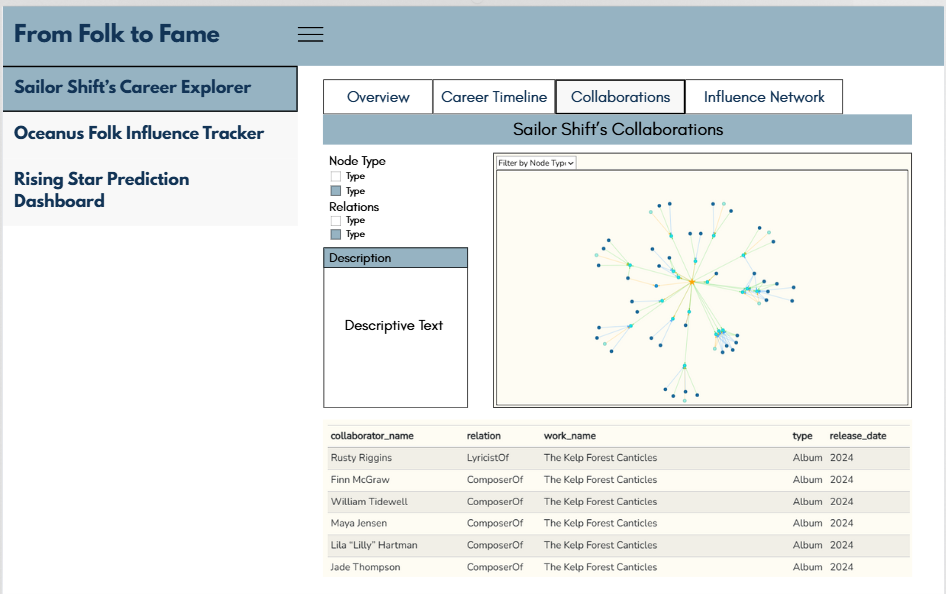
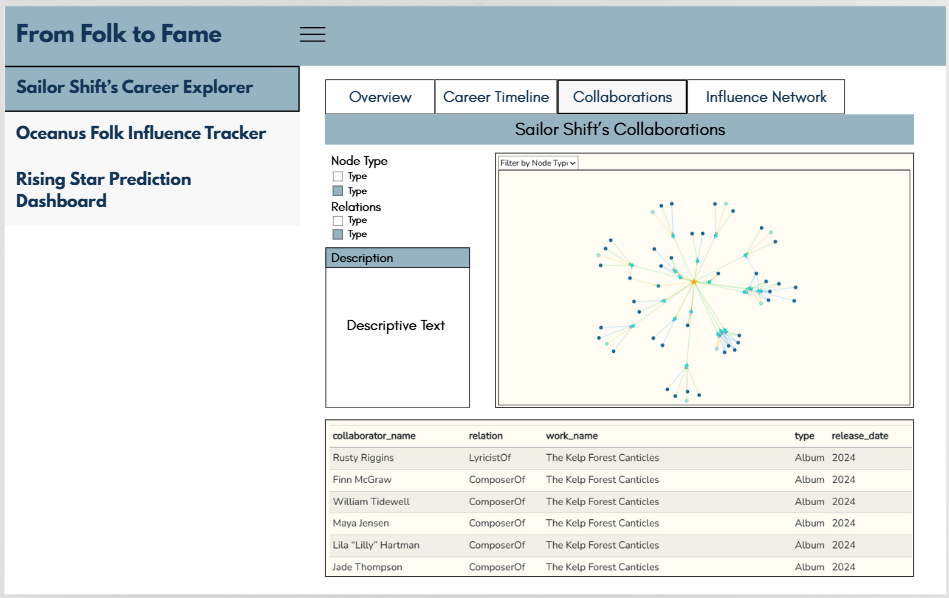
Commit Take Home Exercise 03 Draft

diff --git a/_site/Take-Home_Ex/Take-Home_Ex03/Take-Home_Ex03.html b/_site/Take-Home_Ex/Take-Home_Ex03/Take-Home_Ex03.html
@@ -403,7 +403,7 @@ pre > code.sourceCode > span > a:first-child::before { text-decoration: underlin
 {
     structure(list(...), class = "igraph.edge")
 }
-&lt;bytecode: 0x000001e120230628&gt;
+&lt;bytecode: 0x000001352a0bb2d8&gt;
 &lt;environment: namespace:igraph&gt;</code></pre>
 </div>
 </div>
@@ -1125,8 +1125,8 @@ Ideas
 <span id="cb33-43"><a href="#cb33-43" aria-hidden="true" tabindex="-1"></a><span class="st">                    box-shadow: 2px 2px 5px rgba(0,0,0,0.3);"</span></span>
 <span id="cb33-44"><a href="#cb33-44" aria-hidden="true" tabindex="-1"></a>  )</span></code><button title="Copy to Clipboard" class="code-copy-button"><i class="bi"></i></button></pre></div>
 <div class="cell-output-display">
-<div class="visNetwork html-widget html-fill-item" id="htmlwidget-49c191f64b8ac142f8de" style="width:100%;height:464px;"></div>
-<script type="application/json" data-for="htmlwidget-49c191f64b8ac142f8de">{"x":{"nodes":{"id":[1,2,3,4,5,6,7,8,9,10,11,12,13,14,15,16,17,18,19,20,21,22,23,24,25,26,27,28,29,30,31,32,33,34,35,36,37,38,39,40,41,42,43,44,45,46,47,48,49,50,51,52,53,54,55,56,57,58,59,60,61,62,63,64,65,66,67,68,69],"label":["Zane Cruz","Iris Moon","Violet Engines","Neon Heartbeat","Sophie Bennett","Michael Harris","Kara Lee","Ethan Clarke","Tidal Reverie","Ballads for the End of Time","Olivia Carter","Lucas Bennett","Maya Torres","Crimson Carriage","Melancholy Circuitry","Arlo Sterling","Lyra Blaze","Orion Cruz","Elara May","Cassian Rae","The Brine Choir","Drifting Between the Stars and the Sea","Artificial Sunsets","Electric Reverie","Zachary Cole","Lia Grant","Selkie's Hollow","Ballads for the Low Tide","Rusty Riggins","Finn McGraw","William Tidewell","Ewan MacCrae","Astrid Nørgaard","Freya Lindholm","Liam O'Sullivan","Fiona Mercer","Kai Reynolds","Aiden Harper","Finn Morgan","Skylar Brooks","The Wave Riders","Tides of Echos","Mia Waters","Lila Rivers","Siren's Call","Hidden Depths","Sailor Shift","Maya Jensen","Lila \"Lilly\" Hartman","Jade Thompson","Sophie Ramirez","Ivy Echos","The Kelp Forest Canticles","Luminescent Tides","Shoreline Sonnets","Tidal Pop Waves","Coral Beats","Tides & Ballads","Oceanbound","Echoes of the Deep","Coralia Bellweather","Levi Holloway","Marin Thorne","Jonah Calloway","Beatrice Albright","Tidesworn Ballads","Daniel O'Connell","Submerged Sonatas","Seashell Serenade (2030)"],"group":["Person","Person","MusicalGroup","Album","Person","Person","Person","Person","MusicalGroup","Album","Person","Person","Person","MusicalGroup","Album","Person","Person","Person","Person","Person","MusicalGroup","Album","Album","Album","Person","Person","MusicalGroup","Album","Person","Person","Person","Person","Person","Person","Person","Person","Person","Person","Person","Person","MusicalGroup","Album","Person","Person","MusicalGroup","Album","Person","Person","Person","Person","Person","MusicalGroup","Album","Album","Album","Album","Album","Album","Album","Album","Person","Person","Person","Person","Person","Album","Person","Album","Song"],"title":["Type: Person","Type: Person","Type: MusicalGroup","Type: Album","Type: Person","Type: Person","Type: Person","Type: Person","Type: MusicalGroup","Type: Album","Type: Person","Type: Person","Type: Person","Type: MusicalGroup","Type: Album","Type: Person","Type: Person","Type: Person","Type: Person","Type: Person","Type: MusicalGroup","Type: Album","Type: Album","Type: Album","Type: Person","Type: Person","Type: MusicalGroup","Type: Album","Type: Person","Type: Person","Type: Person","Type: Person","Type: Person","Type: Person","Type: Person","Type: Person","Type: Person","Type: Person","Type: Person","Type: Person","Type: MusicalGroup","Type: Album","Type: Person","Type: Person","Type: MusicalGroup","Type: Album","Type: Person","Type: Person","Type: Person","Type: Person","Type: Person","Type: MusicalGroup","Type: Album","Type: Album","Type: Album","Type: Album","Type: Album","Type: Album","Type: Album","Type: Album","Type: Person","Type: Person","Type: Person","Type: Person","Type: Person","Type: Album","Type: Person","Type: Album","Type: Song"],"color":["#176BA0","#176BA0","#9DF0E2","#1AE8E9","#176BA0","#176BA0","#176BA0","#176BA0","#9DF0E2","#1AE8E9","#176BA0","#176BA0","#176BA0","#9DF0E2","#1AE8E9","#176BA0","#176BA0","#176BA0","#176BA0","#176BA0","#9DF0E2","#1AE8E9","#1AE8E9","#1AE8E9","#176BA0","#176BA0","#9DF0E2","#1AE8E9","#176BA0","#176BA0","#176BA0","#176BA0","#176BA0","#176BA0","#176BA0","#176BA0","#176BA0","#176BA0","#176BA0","#176BA0","#9DF0E2","#1AE8E9","#176BA0","#176BA0","#9DF0E2","#1AE8E9","orange","#176BA0","#176BA0","#176BA0","#176BA0","#9DF0E2","#1AE8E9","#1AE8E9","#1AE8E9","#1AE8E9","#1AE8E9","#1AE8E9","#1AE8E9","#1AE8E9","#176BA0","#176BA0","#176BA0","#176BA0","#176BA0","#1AE8E9","#176BA0","#1AE8E9","#1B9ADE"],"shape":["dot","dot","dot","dot","dot","dot","dot","dot","dot","dot","dot","dot","dot","dot","dot","dot","dot","dot","dot","dot","dot","dot","dot","dot","dot","dot","dot","dot","dot","dot","dot","dot","dot","dot","dot","dot","dot","dot","dot","dot","dot","dot","dot","dot","dot","dot","star","dot","dot","dot","dot","dot","dot","dot","dot","dot","dot","dot","dot","dot","dot","dot","dot","dot","dot","dot","dot","dot","dot"],"size":[15,15,15,15,15,15,15,15,15,15,15,15,15,15,15,15,15,15,15,15,15,15,15,15,15,15,15,15,15,15,15,15,15,15,15,15,15,15,15,15,15,15,15,15,15,15,30,15,15,15,15,15,15,15,15,15,15,15,15,15,15,15,15,15,15,15,15,15,15],"x":[-0.245321564241419,-0.1475134406908725,-0.04768732744023096,-0.1041147839982239,0.9913407514402908,0.9682434643783888,1,0.9511796062701121,0.9010042785981012,0.6755882616159372,0.6053231219116961,0.3999986422967243,0.562760773098586,0.4735342982927662,0.3463367667397343,0.2335007432690568,0.2159078064084385,0.05216590103049512,-0.01289811841550481,0.1481235725871883,0.109315052229398,0.05258222685455416,0.1195129688373835,0.07864099473504504,-0.6379024447046089,-0.7124703609391774,-0.7838767281376491,-0.4957381036534576,-0.8408227005819171,-0.9771501243112106,-1,0.2547516290665013,0.1472410533407125,0.1624959756597668,-0.2511631375880871,-0.3399366534492991,0.5418532461763457,0.6923054181222681,0.6614673123258437,0.7841798376477018,0.8069410434358841,0.5039465750028667,-0.7706037210309697,-0.6338102880257879,-0.6975025253056772,-0.4778085311352345,-0.03455276944077423,-0.6109947158512201,-0.6736893062332432,-0.7169295925470196,-0.7519668869980509,-0.7227455457308497,-0.6429381728982857,-0.5035975967261017,-0.5491567350372183,-0.1716526104721978,0.08307728449242813,0.2514434038210351,0.1087788913772261,-0.1564938311273391,0.5034835989172217,0.4845257307177049,-0.2237525335509665,-0.323785129156962,-0.2865971702741228,-0.1816873621392738,-0.2655406909823861,-0.1672121973214725,0.2912543127391352],"y":[0.9717599142975604,0.9845461145608432,1,0.6146330010550216,0.05071164820379415,0.1517944810965834,-0.05525406281285339,-0.1529504143316158,0.2321499432437966,-0.004839835366738598,0.7463226083253414,0.9364792222157741,0.8755240833192757,0.8531902179956545,0.5520518513498325,-0.7649060896309275,-0.8652359102242975,-0.8902976190344207,-0.862233908880172,-0.8654747892365062,-0.9380717511264937,-0.6911771928865553,-0.6657511658324069,-0.6517609794326773,-0.9710786778014238,-0.8896863451807547,-0.806839755349118,-0.6084988557378014,-0.08579838376082494,-0.3255900958839073,-0.1648656666672036,0.2732999550869788,0.5498905518279225,0.3518475226852564,-0.9248298194815872,-0.8585136793406765,-0.4712887555295393,-0.8919034093996623,-1,-0.8640937332356551,-0.736503467329406,-0.6316581739406559,0.5661190492334494,0.7383993822884503,0.6466721870627146,0.3888558890802458,-0.1235644024239072,-0.3892582544016653,-0.01249160825340523,-0.3041500224120647,-0.2068039143412977,-0.09072759848991852,-0.1903587079036042,-0.1885181653762942,-0.1454718766494446,-0.5300833898048127,0.2049001017191847,-0.06421358218677997,0.09489441581747049,0.2249744591263005,-0.0912876685825007,0.08649820529252916,0.5423538552672433,0.4996997997410695,0.1041919304596508,0.01082988959355458,-0.3972372451514964,-0.2886902290108507,-0.3078636184675723]},"edges":{"from":[1,2,3,5,6,7,8,9,11,12,13,14,16,16,16,17,17,17,18,18,18,19,19,19,20,20,20,21,21,21,25,26,27,29,29,30,31,32,32,33,34,34,35,36,37,37,38,39,40,41,43,44,45,47,47,47,47,47,47,47,47,47,47,47,47,47,47,47,47,47,47,47,47,47,47,47,47,47,47,47,48,48,48,48,49,49,49,50,50,50,51,51,51,52,52,52,61,62,63,64,65,65,65,67,67,67],"to":[4,4,4,10,10,10,10,10,15,15,15,15,22,23,24,22,23,24,22,23,24,22,23,24,22,23,24,22,23,24,28,28,28,53,55,53,53,57,59,57,57,59,56,56,42,69,42,42,42,42,46,46,46,4,10,15,22,23,24,28,42,46,53,54,55,56,56,57,57,58,58,59,59,60,60,66,66,68,68,69,28,53,54,55,53,54,55,53,54,55,53,54,55,53,54,55,58,58,60,60,66,66,66,68,68,68],"color":["#32CD32","#1E90FF","#FFA500","#1E90FF","#32CD32","#32CD32","#1E90FF","#FFA500","#1E90FF","#1E90FF","#1E90FF","#FFA500","#32CD32","#32CD32","#32CD32","#1E90FF","#1E90FF","#1E90FF","#1E90FF","#1E90FF","#1E90FF","#1E90FF","#1E90FF","#1E90FF","#1E90FF","#1E90FF","#1E90FF","#FFA500","#FFA500","#FFA500","#32CD32","#32CD32","#FFA500","#32CD32","#32CD32","#1E90FF","#1E90FF","#32CD32","#32CD32","#1E90FF","#1E90FF","#1E90FF","#1E90FF","#1E90FF","#32CD32","#FFA500","#32CD32","#32CD32","#32CD32","#FFA500","#32CD32","#1E90FF","#FFA500","#32CD32","#32CD32","#32CD32","#32CD32","#32CD32","#32CD32","#32CD32","#32CD32","#32CD32","#32CD32","#32CD32","#32CD32","#32CD32","#FFA500","#32CD32","#FFA500","#32CD32","#FFA500","#32CD32","#FFA500","#32CD32","#FFA500","#FFA500","#32CD32","#FFA500","#32CD32","#FFA500","#1E90FF","#1E90FF","#1E90FF","#1E90FF","#1E90FF","#1E90FF","#1E90FF","#1E90FF","#1E90FF","#1E90FF","#32CD32","#32CD32","#32CD32","#FFA500","#FFA500","#FFA500","#1E90FF","#32CD32","#1E90FF","#32CD32","#FFA500","#32CD32","#FFA500","#FFA500","#1E90FF","#FFA500"],"arrows":["to","to","to","to","to","to","to","to","to","to","to","to","to","to","to","to","to","to","to","to","to","to","to","to","to","to","to","to","to","to","to","to","to","to","to","to","to","to","to","to","to","to","to","to","to","to","to","to","to","to","to","to","to","to","to","to","to","to","to","to","to","to","to","to","to","to","to","to","to","to","to","to","to","to","to","to","to","to","to","to","to","to","to","to","to","to","to","to","to","to","to","to","to","to","to","to","to","to","to","to","to","to","to","to","to","to"],"title":["Relation: LyricistOf","Relation: ComposerOf","Relation: PerformerOf","Relation: ComposerOf","Relation: LyricistOf","Relation: LyricistOf","Relation: ComposerOf","Relation: PerformerOf","Relation: ComposerOf","Relation: ComposerOf","Relation: ComposerOf","Relation: PerformerOf","Relation: LyricistOf","Relation: LyricistOf","Relation: LyricistOf","Relation: ComposerOf","Relation: ComposerOf","Relation: ComposerOf","Relation: ComposerOf","Relation: ComposerOf","Relation: ComposerOf","Relation: ComposerOf","Relation: ComposerOf","Relation: ComposerOf","Relation: ComposerOf","Relation: ComposerOf","Relation: ComposerOf","Relation: PerformerOf","Relation: PerformerOf","Relation: PerformerOf","Relation: LyricistOf","Relation: LyricistOf","Relation: PerformerOf","Relation: LyricistOf","Relation: LyricistOf","Relation: ComposerOf","Relation: ComposerOf","Relation: LyricistOf","Relation: LyricistOf","Relation: ComposerOf","Relation: ComposerOf","Relation: ComposerOf","Relation: ComposerOf","Relation: ComposerOf","Relation: LyricistOf","Relation: PerformerOf","Relation: LyricistOf","Relation: LyricistOf","Relation: LyricistOf","Relation: PerformerOf","Relation: LyricistOf","Relation: ComposerOf","Relation: PerformerOf","Relation: LyricistOf","Relation: LyricistOf","Relation: LyricistOf","Relation: LyricistOf","Relation: LyricistOf","Relation: LyricistOf","Relation: LyricistOf","Relation: LyricistOf","Relation: LyricistOf","Relation: LyricistOf","Relation: LyricistOf","Relation: LyricistOf","Relation: LyricistOf","Relation: PerformerOf","Relation: LyricistOf","Relation: PerformerOf","Relation: LyricistOf","Relation: PerformerOf","Relation: LyricistOf","Relation: PerformerOf","Relation: LyricistOf","Relation: PerformerOf","Relation: PerformerOf","Relation: LyricistOf","Relation: PerformerOf","Relation: LyricistOf","Relation: PerformerOf","Relation: ComposerOf","Relation: ComposerOf","Relation: ComposerOf","Relation: ComposerOf","Relation: ComposerOf","Relation: ComposerOf","Relation: ComposerOf","Relation: ComposerOf","Relation: ComposerOf","Relation: ComposerOf","Relation: LyricistOf","Relation: LyricistOf","Relation: LyricistOf","Relation: PerformerOf","Relation: PerformerOf","Relation: PerformerOf","Relation: ComposerOf","Relation: LyricistOf","Relation: ComposerOf","Relation: LyricistOf","Relation: PerformerOf","Relation: LyricistOf","Relation: PerformerOf","Relation: PerformerOf","Relation: ComposerOf","Relation: PerformerOf"]},"nodesToDataframe":true,"edgesToDataframe":true,"options":{"width":"100%","height":"100%","nodes":{"shape":"dot","physics":false},"manipulation":{"enabled":false},"edges":{"smooth":false},"physics":{"stabilization":false},"layout":{"randomSeed":123},"interaction":{"zoomSpeed":1}},"groups":["Person","MusicalGroup","Album","Song"],"width":null,"height":null,"idselection":{"enabled":false,"style":"width: 150px; height: 26px","useLabels":true,"main":"Select by id"},"byselection":{"enabled":true,"style":"width: 150px; height: 26px","multiple":false,"hideColor":"rgba(200,200,200,0.5)","highlight":false,"variable":"group","main":"Filter by Node Type","values":["Album","MusicalGroup","Person","Song"]},"main":null,"submain":null,"footer":null,"background":"rgba(0, 0, 0, 0)","igraphlayout":{"type":"square"},"highlight":{"enabled":true,"hoverNearest":false,"degree":1,"algorithm":"all","hideColor":"rgba(200,200,200,0.5)","labelOnly":true},"collapse":{"enabled":false,"fit":false,"resetHighlight":true,"clusterOptions":null,"keepCoord":true,"labelSuffix":"(cluster)"},"tooltipStay":300,"tooltipStyle":"position: absolute;\n                    visibility: hidden;\n                    padding: 8px;\n                    font-size: 14px;\n                    background-color: #E3F2FA;\n                    color: #333333;\n                    border: 1px solid #333333;\n                    border-radius: 6px;\n                    box-shadow: 2px 2px 5px rgba(0,0,0,0.3);"},"evals":[],"jsHooks":[]}</script>
+<div class="visNetwork html-widget html-fill-item" id="htmlwidget-c8cb616ff53ba4aa7949" style="width:100%;height:464px;"></div>
+<script type="application/json" data-for="htmlwidget-c8cb616ff53ba4aa7949">{"x":{"nodes":{"id":[1,2,3,4,5,6,7,8,9,10,11,12,13,14,15,16,17,18,19,20,21,22,23,24,25,26,27,28,29,30,31,32,33,34,35,36,37,38,39,40,41,42,43,44,45,46,47,48,49,50,51,52,53,54,55,56,57,58,59,60,61,62,63,64,65,66,67,68,69],"label":["Zane Cruz","Iris Moon","Violet Engines","Neon Heartbeat","Sophie Bennett","Michael Harris","Kara Lee","Ethan Clarke","Tidal Reverie","Ballads for the End of Time","Olivia Carter","Lucas Bennett","Maya Torres","Crimson Carriage","Melancholy Circuitry","Arlo Sterling","Lyra Blaze","Orion Cruz","Elara May","Cassian Rae","The Brine Choir","Drifting Between the Stars and the Sea","Artificial Sunsets","Electric Reverie","Zachary Cole","Lia Grant","Selkie's Hollow","Ballads for the Low Tide","Rusty Riggins","Finn McGraw","William Tidewell","Ewan MacCrae","Astrid Nørgaard","Freya Lindholm","Liam O'Sullivan","Fiona Mercer","Kai Reynolds","Aiden Harper","Finn Morgan","Skylar Brooks","The Wave Riders","Tides of Echos","Mia Waters","Lila Rivers","Siren's Call","Hidden Depths","Sailor Shift","Maya Jensen","Lila \"Lilly\" Hartman","Jade Thompson","Sophie Ramirez","Ivy Echos","The Kelp Forest Canticles","Luminescent Tides","Shoreline Sonnets","Tidal Pop Waves","Coral Beats","Tides & Ballads","Oceanbound","Echoes of the Deep","Coralia Bellweather","Levi Holloway","Marin Thorne","Jonah Calloway","Beatrice Albright","Tidesworn Ballads","Daniel O'Connell","Submerged Sonatas","Seashell Serenade (2030)"],"group":["Person","Person","MusicalGroup","Album","Person","Person","Person","Person","MusicalGroup","Album","Person","Person","Person","MusicalGroup","Album","Person","Person","Person","Person","Person","MusicalGroup","Album","Album","Album","Person","Person","MusicalGroup","Album","Person","Person","Person","Person","Person","Person","Person","Person","Person","Person","Person","Person","MusicalGroup","Album","Person","Person","MusicalGroup","Album","Person","Person","Person","Person","Person","MusicalGroup","Album","Album","Album","Album","Album","Album","Album","Album","Person","Person","Person","Person","Person","Album","Person","Album","Song"],"title":["Type: Person","Type: Person","Type: MusicalGroup","Type: Album","Type: Person","Type: Person","Type: Person","Type: Person","Type: MusicalGroup","Type: Album","Type: Person","Type: Person","Type: Person","Type: MusicalGroup","Type: Album","Type: Person","Type: Person","Type: Person","Type: Person","Type: Person","Type: MusicalGroup","Type: Album","Type: Album","Type: Album","Type: Person","Type: Person","Type: MusicalGroup","Type: Album","Type: Person","Type: Person","Type: Person","Type: Person","Type: Person","Type: Person","Type: Person","Type: Person","Type: Person","Type: Person","Type: Person","Type: Person","Type: MusicalGroup","Type: Album","Type: Person","Type: Person","Type: MusicalGroup","Type: Album","Type: Person","Type: Person","Type: Person","Type: Person","Type: Person","Type: MusicalGroup","Type: Album","Type: Album","Type: Album","Type: Album","Type: Album","Type: Album","Type: Album","Type: Album","Type: Person","Type: Person","Type: Person","Type: Person","Type: Person","Type: Album","Type: Person","Type: Album","Type: Song"],"color":["#176BA0","#176BA0","#9DF0E2","#1AE8E9","#176BA0","#176BA0","#176BA0","#176BA0","#9DF0E2","#1AE8E9","#176BA0","#176BA0","#176BA0","#9DF0E2","#1AE8E9","#176BA0","#176BA0","#176BA0","#176BA0","#176BA0","#9DF0E2","#1AE8E9","#1AE8E9","#1AE8E9","#176BA0","#176BA0","#9DF0E2","#1AE8E9","#176BA0","#176BA0","#176BA0","#176BA0","#176BA0","#176BA0","#176BA0","#176BA0","#176BA0","#176BA0","#176BA0","#176BA0","#9DF0E2","#1AE8E9","#176BA0","#176BA0","#9DF0E2","#1AE8E9","orange","#176BA0","#176BA0","#176BA0","#176BA0","#9DF0E2","#1AE8E9","#1AE8E9","#1AE8E9","#1AE8E9","#1AE8E9","#1AE8E9","#1AE8E9","#1AE8E9","#176BA0","#176BA0","#176BA0","#176BA0","#176BA0","#1AE8E9","#176BA0","#1AE8E9","#1B9ADE"],"shape":["dot","dot","dot","dot","dot","dot","dot","dot","dot","dot","dot","dot","dot","dot","dot","dot","dot","dot","dot","dot","dot","dot","dot","dot","dot","dot","dot","dot","dot","dot","dot","dot","dot","dot","dot","dot","dot","dot","dot","dot","dot","dot","dot","dot","dot","dot","star","dot","dot","dot","dot","dot","dot","dot","dot","dot","dot","dot","dot","dot","dot","dot","dot","dot","dot","dot","dot","dot","dot"],"size":[15,15,15,15,15,15,15,15,15,15,15,15,15,15,15,15,15,15,15,15,15,15,15,15,15,15,15,15,15,15,15,15,15,15,15,15,15,15,15,15,15,15,15,15,15,15,30,15,15,15,15,15,15,15,15,15,15,15,15,15,15,15,15,15,15,15,15,15,15],"x":[-0.399025943981452,-0.20180890632596,-0.3069828298277312,-0.2221817866887404,0.6320624972654019,0.681948614476501,0.7799540185955676,0.5303927571504596,0.7319582536588207,0.470168219966179,0.9181114288585361,1,0.9431347546412732,0.9402706320333756,0.6459268141135306,0.2379427374654435,0.1170431757279675,0.14171337034464,0.04306400647345865,0.2115539803490012,-0.01616221125623807,0.121052157244524,0.0428531266756258,0.07987853097794062,-0.9926396692869373,-1,-0.9260604727041037,-0.6625157346953852,-0.6774658271268411,-0.8542891505151187,-0.9188903802831211,0.2982765086486125,0.2544724433500185,0.2119991425966703,-0.2753639790434698,-0.1791593547491018,-0.4907643724986718,-0.545766115767973,-0.6286064876926962,-0.7542432203097331,-0.7215778985091568,-0.4728386943596382,0.6206077634176739,0.6927918516228548,0.7541205189166589,0.4506308206548459,-0.0402242402482329,-0.6525578399604042,-0.6537983133369738,-0.7080952383977013,-0.5519716953220699,-0.6920960122109844,-0.5807079191200916,-0.4807133163964349,-0.4897429259662242,-0.1463500727508718,0.1247618225389016,0.2577936378294445,0.119948397346586,-0.00939014506007807,0.5137970164256456,0.5324583422513138,0.07772257574818742,-0.02519726844154135,-0.3564175265111271,-0.2273211210506665,0.3190774384025596,0.1724571669013049,-0.2941918826011847],"y":[-0.9353128998371344,-1,-0.9930229086306278,-0.6291931142484346,0.9844842579486588,0.8321053743517004,0.7666618623122305,0.9937269940365627,0.9202703353330881,0.6551837249094961,0.1028001810251931,0.05277951958541149,0.2208062085171396,-0.06410842568842245,0.0752241256539754,-0.5058611973544556,-0.6529371533299082,-0.5786415866930136,-0.6254732145223028,-0.5990533248644616,-0.562916558993829,-0.4068043063545657,-0.4313114585051078,-0.4127431144075879,0.1422247575607816,0.2607209267336938,0.3432331091771468,0.1625820431885818,-0.4784542979454792,-0.5335952732859435,-0.3990571845868813,0.387138124696097,0.645344618671936,0.4752228008432051,0.7239056193710642,0.7638604503896229,0.5187081752302034,1,0.9350572609444112,0.8009975959551434,0.9143475056650452,0.6453110686407273,-0.7458996547354103,-0.6636161127697245,-0.5722615958861339,-0.4185717372770058,0.0525220620345046,-0.07507584062298889,-0.3518422745603151,-0.2734139725999223,-0.3999150118720382,-0.1901377048865541,-0.2710167634491898,-0.1564767401653299,-0.2278241345859863,0.4201621360459926,0.338267987476089,-0.05711681543839053,0.2441569428558554,0.458316369732801,-0.2009423518745452,-0.07333087208220701,0.8006952765598305,0.8206306271907717,0.1369415593685637,0.09551750252779412,0.1111707654685137,0.07918570741335085,0.3193793198058925]},"edges":{"from":[1,2,3,5,6,7,8,9,11,12,13,14,16,16,16,17,17,17,18,18,18,19,19,19,20,20,20,21,21,21,25,26,27,29,29,30,31,32,32,33,34,34,35,36,37,37,38,39,40,41,43,44,45,47,47,47,47,47,47,47,47,47,47,47,47,47,47,47,47,47,47,47,47,47,47,47,47,47,47,47,48,48,48,48,49,49,49,50,50,50,51,51,51,52,52,52,61,62,63,64,65,65,65,67,67,67],"to":[4,4,4,10,10,10,10,10,15,15,15,15,22,23,24,22,23,24,22,23,24,22,23,24,22,23,24,22,23,24,28,28,28,53,55,53,53,57,59,57,57,59,56,56,42,69,42,42,42,42,46,46,46,4,10,15,22,23,24,28,42,46,53,54,55,56,56,57,57,58,58,59,59,60,60,66,66,68,68,69,28,53,54,55,53,54,55,53,54,55,53,54,55,53,54,55,58,58,60,60,66,66,66,68,68,68],"color":["#32CD32","#1E90FF","#FFA500","#1E90FF","#32CD32","#32CD32","#1E90FF","#FFA500","#1E90FF","#1E90FF","#1E90FF","#FFA500","#32CD32","#32CD32","#32CD32","#1E90FF","#1E90FF","#1E90FF","#1E90FF","#1E90FF","#1E90FF","#1E90FF","#1E90FF","#1E90FF","#1E90FF","#1E90FF","#1E90FF","#FFA500","#FFA500","#FFA500","#32CD32","#32CD32","#FFA500","#32CD32","#32CD32","#1E90FF","#1E90FF","#32CD32","#32CD32","#1E90FF","#1E90FF","#1E90FF","#1E90FF","#1E90FF","#32CD32","#FFA500","#32CD32","#32CD32","#32CD32","#FFA500","#32CD32","#1E90FF","#FFA500","#32CD32","#32CD32","#32CD32","#32CD32","#32CD32","#32CD32","#32CD32","#32CD32","#32CD32","#32CD32","#32CD32","#32CD32","#32CD32","#FFA500","#32CD32","#FFA500","#32CD32","#FFA500","#32CD32","#FFA500","#32CD32","#FFA500","#FFA500","#32CD32","#FFA500","#32CD32","#FFA500","#1E90FF","#1E90FF","#1E90FF","#1E90FF","#1E90FF","#1E90FF","#1E90FF","#1E90FF","#1E90FF","#1E90FF","#32CD32","#32CD32","#32CD32","#FFA500","#FFA500","#FFA500","#1E90FF","#32CD32","#1E90FF","#32CD32","#FFA500","#32CD32","#FFA500","#FFA500","#1E90FF","#FFA500"],"arrows":["to","to","to","to","to","to","to","to","to","to","to","to","to","to","to","to","to","to","to","to","to","to","to","to","to","to","to","to","to","to","to","to","to","to","to","to","to","to","to","to","to","to","to","to","to","to","to","to","to","to","to","to","to","to","to","to","to","to","to","to","to","to","to","to","to","to","to","to","to","to","to","to","to","to","to","to","to","to","to","to","to","to","to","to","to","to","to","to","to","to","to","to","to","to","to","to","to","to","to","to","to","to","to","to","to","to"],"title":["Relation: LyricistOf","Relation: ComposerOf","Relation: PerformerOf","Relation: ComposerOf","Relation: LyricistOf","Relation: LyricistOf","Relation: ComposerOf","Relation: PerformerOf","Relation: ComposerOf","Relation: ComposerOf","Relation: ComposerOf","Relation: PerformerOf","Relation: LyricistOf","Relation: LyricistOf","Relation: LyricistOf","Relation: ComposerOf","Relation: ComposerOf","Relation: ComposerOf","Relation: ComposerOf","Relation: ComposerOf","Relation: ComposerOf","Relation: ComposerOf","Relation: ComposerOf","Relation: ComposerOf","Relation: ComposerOf","Relation: ComposerOf","Relation: ComposerOf","Relation: PerformerOf","Relation: PerformerOf","Relation: PerformerOf","Relation: LyricistOf","Relation: LyricistOf","Relation: PerformerOf","Relation: LyricistOf","Relation: LyricistOf","Relation: ComposerOf","Relation: ComposerOf","Relation: LyricistOf","Relation: LyricistOf","Relation: ComposerOf","Relation: ComposerOf","Relation: ComposerOf","Relation: ComposerOf","Relation: ComposerOf","Relation: LyricistOf","Relation: PerformerOf","Relation: LyricistOf","Relation: LyricistOf","Relation: LyricistOf","Relation: PerformerOf","Relation: LyricistOf","Relation: ComposerOf","Relation: PerformerOf","Relation: LyricistOf","Relation: LyricistOf","Relation: LyricistOf","Relation: LyricistOf","Relation: LyricistOf","Relation: LyricistOf","Relation: LyricistOf","Relation: LyricistOf","Relation: LyricistOf","Relation: LyricistOf","Relation: LyricistOf","Relation: LyricistOf","Relation: LyricistOf","Relation: PerformerOf","Relation: LyricistOf","Relation: PerformerOf","Relation: LyricistOf","Relation: PerformerOf","Relation: LyricistOf","Relation: PerformerOf","Relation: LyricistOf","Relation: PerformerOf","Relation: PerformerOf","Relation: LyricistOf","Relation: PerformerOf","Relation: LyricistOf","Relation: PerformerOf","Relation: ComposerOf","Relation: ComposerOf","Relation: ComposerOf","Relation: ComposerOf","Relation: ComposerOf","Relation: ComposerOf","Relation: ComposerOf","Relation: ComposerOf","Relation: ComposerOf","Relation: ComposerOf","Relation: LyricistOf","Relation: LyricistOf","Relation: LyricistOf","Relation: PerformerOf","Relation: PerformerOf","Relation: PerformerOf","Relation: ComposerOf","Relation: LyricistOf","Relation: ComposerOf","Relation: LyricistOf","Relation: PerformerOf","Relation: LyricistOf","Relation: PerformerOf","Relation: PerformerOf","Relation: ComposerOf","Relation: PerformerOf"]},"nodesToDataframe":true,"edgesToDataframe":true,"options":{"width":"100%","height":"100%","nodes":{"shape":"dot","physics":false},"manipulation":{"enabled":false},"edges":{"smooth":false},"physics":{"stabilization":false},"layout":{"randomSeed":123},"interaction":{"zoomSpeed":1}},"groups":["Person","MusicalGroup","Album","Song"],"width":null,"height":null,"idselection":{"enabled":false,"style":"width: 150px; height: 26px","useLabels":true,"main":"Select by id"},"byselection":{"enabled":true,"style":"width: 150px; height: 26px","multiple":false,"hideColor":"rgba(200,200,200,0.5)","highlight":false,"variable":"group","main":"Filter by Node Type","values":["Album","MusicalGroup","Person","Song"]},"main":null,"submain":null,"footer":null,"background":"rgba(0, 0, 0, 0)","igraphlayout":{"type":"square"},"highlight":{"enabled":true,"hoverNearest":false,"degree":1,"algorithm":"all","hideColor":"rgba(200,200,200,0.5)","labelOnly":true},"collapse":{"enabled":false,"fit":false,"resetHighlight":true,"clusterOptions":null,"keepCoord":true,"labelSuffix":"(cluster)"},"tooltipStay":300,"tooltipStyle":"position: absolute;\n                    visibility: hidden;\n                    padding: 8px;\n                    font-size: 14px;\n                    background-color: #E3F2FA;\n                    color: #333333;\n                    border: 1px solid #333333;\n                    border-radius: 6px;\n                    box-shadow: 2px 2px 5px rgba(0,0,0,0.3);"},"evals":[],"jsHooks":[]}</script>
 </div>
 </div>
 </div>
